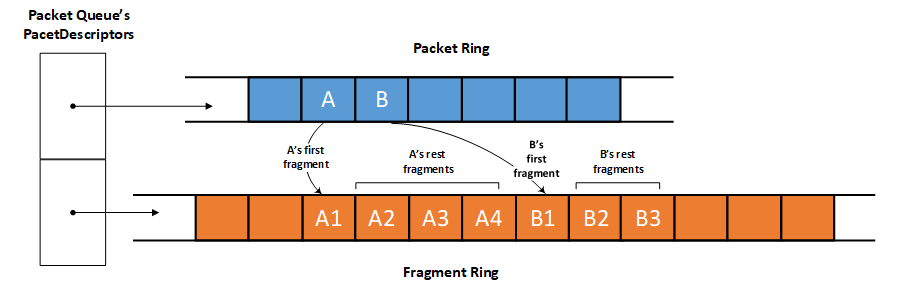
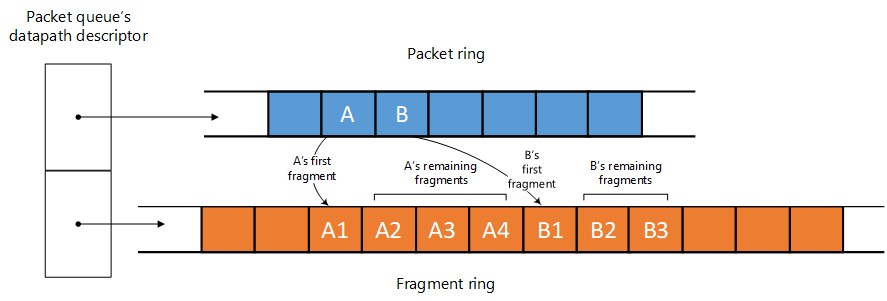
Updating wording for ring buffers, updating image text for multi-rings

Changed region(s): [[0.0, 0.031, 1.0, 0.931], [0.4566, 0.1241, 0.5479, 0.2172], [0.4262, 0.9, 0.5784, 0.9931]]

diff --git a/windows-driver-docs-pr/netcx/using-the-ring-buffer.md b/windows-driver-docs-pr/netcx/using-the-ring-buffer.md
@@ -60,7 +60,7 @@ While a client driver that targets a device with an asynchronous I/O model, such
 
 Here is a typical sequence for a device driver with asynchronous I/O:
 
-1. [**NetRxQueueGetDatapathDescriptor**](https://docs.microsoft.com/windows-hardware/drivers/ddi/content/netrxqueue/nf-netrxqueue-netrxqueuegetdatapathdescriptor) or [**NetTxQueueGetDatapathDescriptor**](https://docs.microsoft.com/windows-hardware/drivers/ddi/content/nettxqueue/nf-nettxqueue-nettxqueuegetdatapathdescriptor) to retrieve the queue's datapath descriptor.
+1. Call [**NetRxQueueGetDatapathDescriptor**](https://docs.microsoft.com/windows-hardware/drivers/ddi/content/netrxqueue/nf-netrxqueue-netrxqueuegetdatapathdescriptor) or [**NetTxQueueGetDatapathDescriptor**](https://docs.microsoft.com/windows-hardware/drivers/ddi/content/nettxqueue/nf-nettxqueue-nettxqueuegetdatapathdescriptor) to retrieve the queue's datapath descriptor.
 2. Use the datapath descriptor to retrieve the queue's packet ring buffer by calling [NET_DATAPATH_DESCRIPTOR_GET_PACKET_RING_BUFFER](https://docs.microsoft.com/windows-hardware/drivers/ddi/content/netdatapathdescriptor/nf-netdatapathdescriptor-net_datapath_descriptor_get_packet_ring_buffer).
 3. Iterate on the packets in the ring buffer. Typically, do the following in a loop:
     1. Call [**NetRingBufferGetNextPacket**](netringbuffergetnextpacket.md).
@@ -68,4 +68,4 @@ Here is a typical sequence for a device driver with asynchronous I/O:
     3. Call [**NetRingBufferAdvanceNextPacket**](netringbufferadvancenextpacket.md).
 4. Call [**NetRingBufferReturnCompletedPackets**](netringbufferreturncompletedpackets.md).
 
-As asynchronous I/O completions come in, the client sets the **Completed** flag of the first associated [**NET_PACKET_FRAGMENT**](net-packet-fragment.md) to **TRUE**. This enables [**NetRingBufferReturnCompletedPackets**](NetRingBufferReturnCompletedPackets.md) to complete packets.
+As asynchronous I/O completions come in, the client sets the **Completed** flag of the first associated [**NET_PACKET_FRAGMENT**](net-packet-fragment.md) to **TRUE**. This enables [**NetRingBufferReturnCompletedPackets**](NetRingBufferReturnCompletedPackets.md) to complete packets. To access the first associated **NET_PACKET_FRAGMENT** of a packet, call the [NET_PACKET_GET_FRAGMENT](https://docs.microsoft.com/windows-hardware/drivers/ddi/content/netdatapathdescriptor/nf-netdatapathdescriptor-net_packet_get_fragment) macro with the packet, the queue's datapath descriptor, and the *0* index parameters.
